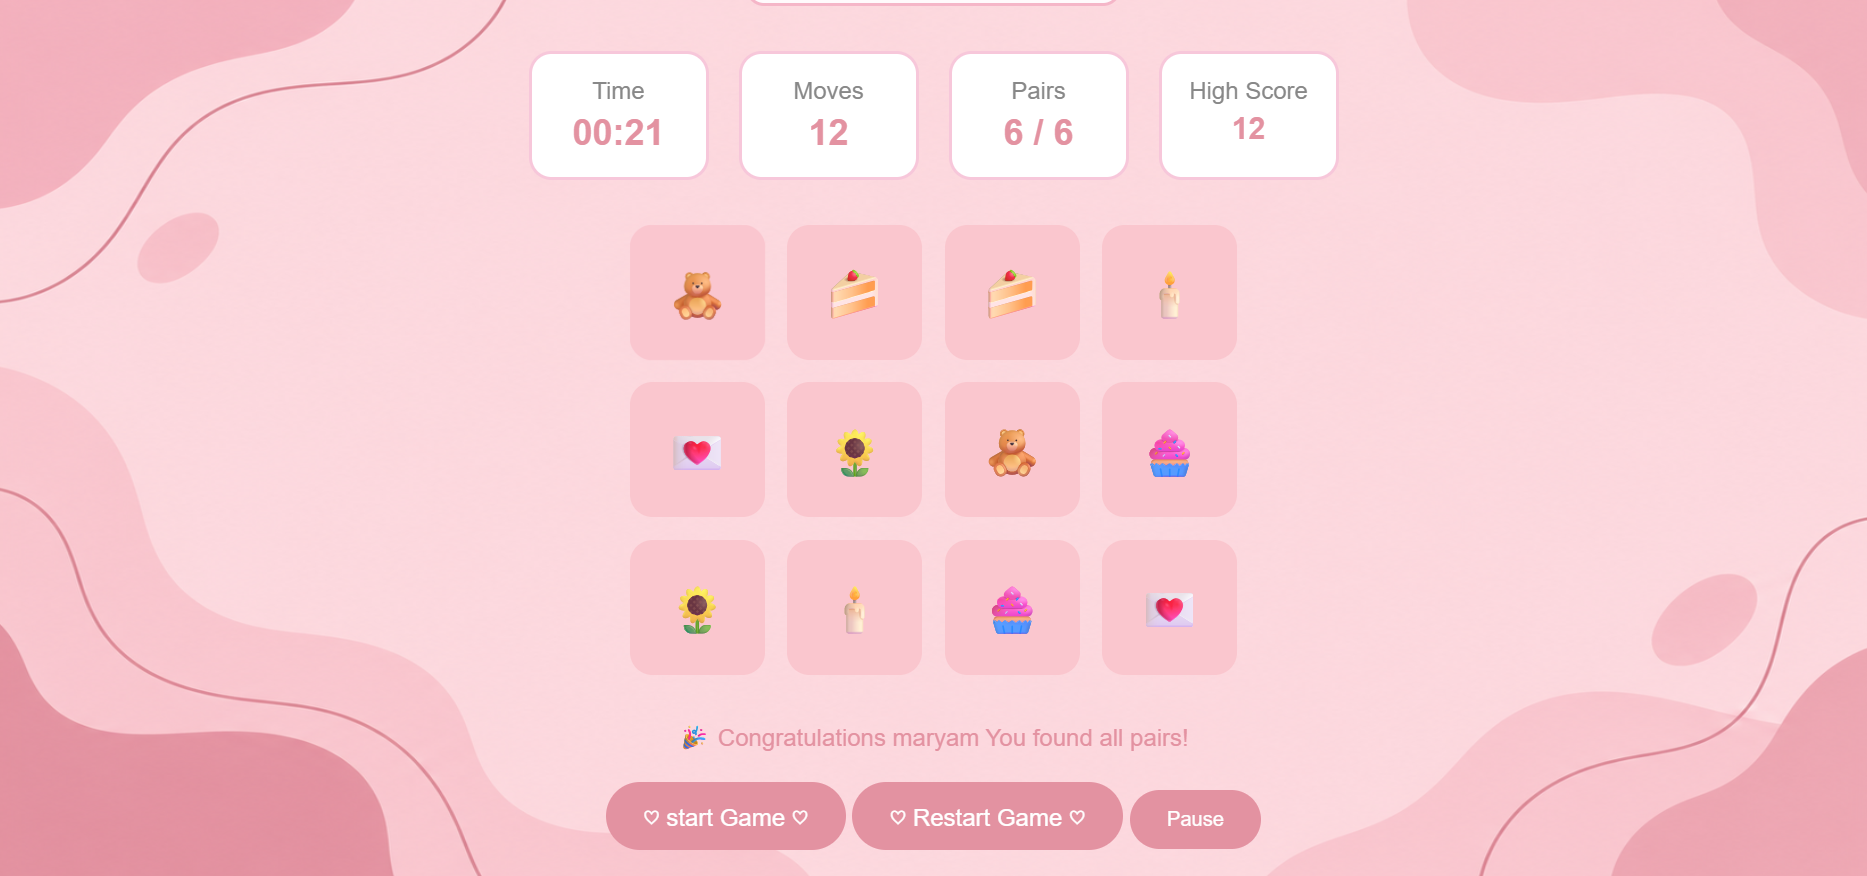
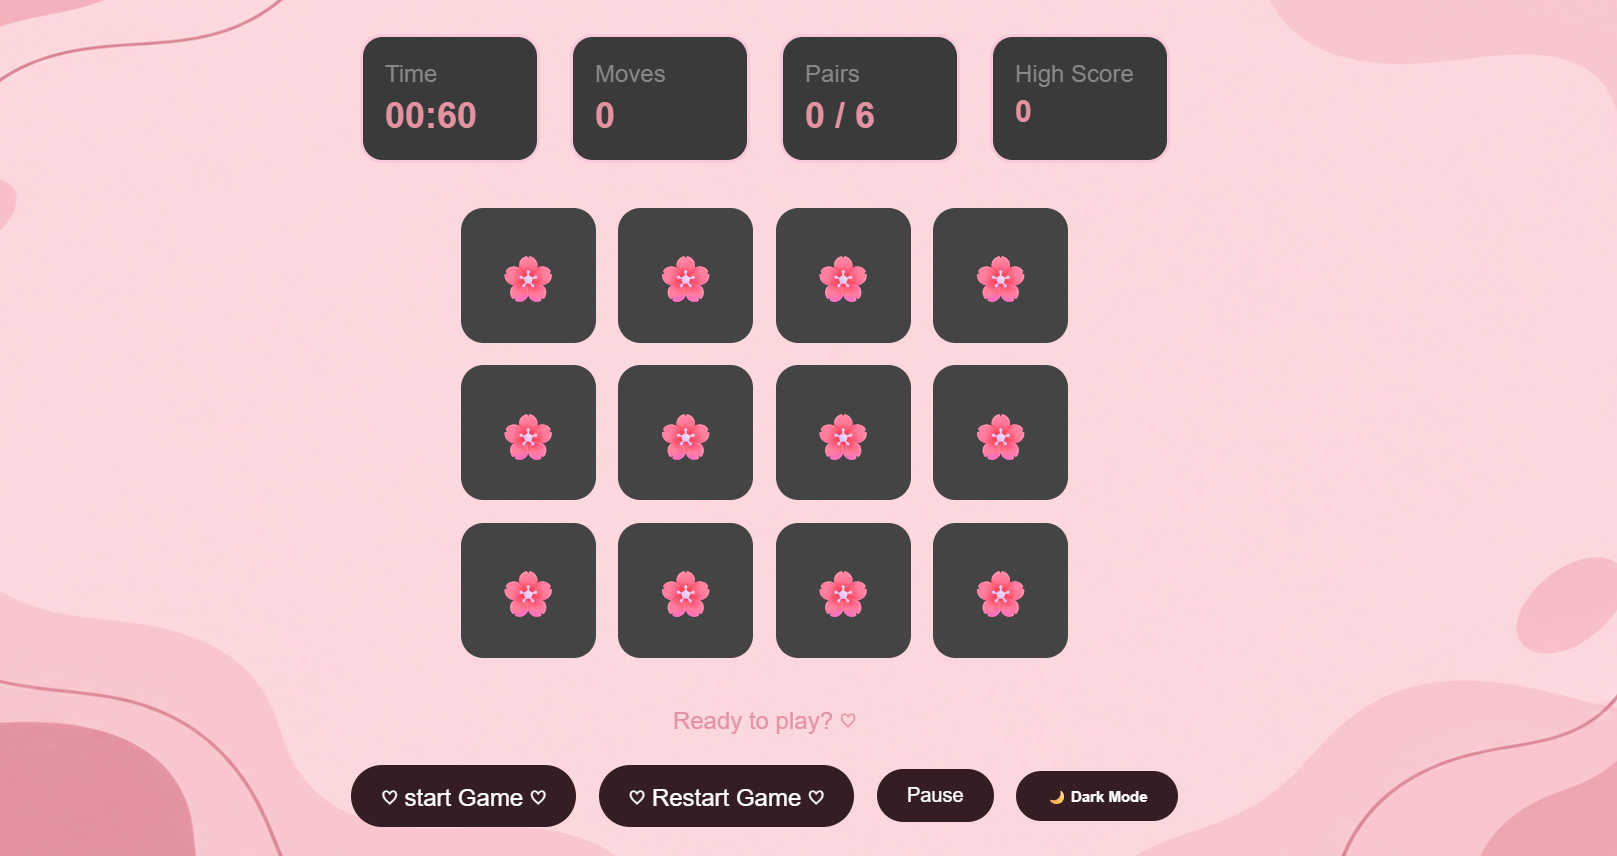
creating readme

diff --git a/style.css b/style.css
@@ -157,15 +157,14 @@ to {
     transform: scale(1.05);
 }
 
-
-
-.message {
-    margin: 20px 0;
-    color:  #E392A1;
-    text-align: center;
+.buttons-container {
+    display: flex;
+    justify-content: center;
+    align-items: center;
+    gap: 15px;
+    margin-top: 20px;
 }
-
-.start-button {
+#start-button {
     background-color: #E392A1;
     color: white;
 
@@ -178,12 +177,12 @@ to {
     font-size: 1rem;
 }
 
-.start-button:hover {
+#start-button:hover {
     background-color: #FAC6CF;
 }
 
 
-.restart-button {
+#restart-button {
     background-color: #E392A1;
     color: white;
 
@@ -196,7 +195,7 @@ to {
     font-size: 1rem;
 }
 
-.restart-button:hover {
+#restart-button:hover {
     background-color: #FAC6CF;
 }
 
@@ -209,7 +208,7 @@ to {
 
     padding: 10px 20px;
     cursor: pointer;
-
+ align-items: center;
     transition: 0.3s;
 }
 
@@ -241,6 +240,15 @@ to {
 }
 
 
+
+
+.message {
+    margin: 20px 0;
+    color:  #E392A1;
+    text-align: center;
+}
+
+
 .dark-mode {
     background-color: #222;
     color: white;
@@ -257,22 +265,26 @@ to {
     background-color: #3a3a3a;
     color: white;
 }
-.dark-mode button {
+.dark-mode #dark-mode-button {
     background-color: #341e24;
-    color: white;
-   
-    
+    color: white;   
 
 }
 .dark-mode #pause-button{
+      background-color: #341e24;
+    color: white;   
+}
+.dark-mode #restart-button{
     background-color: #341e24;
-    color: white;
+    color: white;  
+}
+.dark-mode #start-button{
+   background-color: #341e24;
+    color: white;  
 }
 
-.dark-mode #dark-mode-button{
-background-color: #341e24;
-    color: white;
-}
+
+
 
 /* 
    MOBILE

diff --git a/index.html b/index.html
@@ -94,16 +94,12 @@
 
 
 
-         <button id="start-button" class="start-button" type="button">
-            ♡ start Game ♡
-        </button>
-        <!-- Restart Button -->
-        <button id="restart-button" class="restart-button" type="button">
-            ♡ Restart Game ♡
-        </button>
-    
-        <button id="pause-button">Pause</button>
-       <button id="dark-mode-button">🌙 Dark Mode</button>
+         <div class="buttons-container">
+    <button id="start-button">♡ start Game ♡</button>
+    <button id="restart-button">♡ Restart Game ♡</button>
+    <button id="pause-button">Pause</button>
+    <button id="dark-mode-button">🌙 Dark Mode</button>
+</div>
     </main>
 
 </body>

diff --git a/app.js b/app.js
@@ -40,6 +40,11 @@ let moves = 0;
 let pairs = 0;
 let time = 60;
 
+
+//functions 
+
+
+//timer function 
 function startTimer() {
 
   timerInterval = setInterval(() => {
@@ -141,6 +146,7 @@ if (isPaused) {
 
     messageElement.textContent =
         `🎉 Congratulations ${playerName} You found all pairs!`;
+        clearInterval(timerInterval)
 
     if (highscore === 0 || moves< highscore) {
 

diff --git a/README.md b/README.md
@@ -33,10 +33,7 @@ memory card game is a simple and interactive game where playes filp cards to the
 
 
 ## screenshots 
-![alt text](image.png)
 ![alt text](image-1.png)
-![alt text](image-2.png)
-![alt text](image-3.png)
 
 
 
